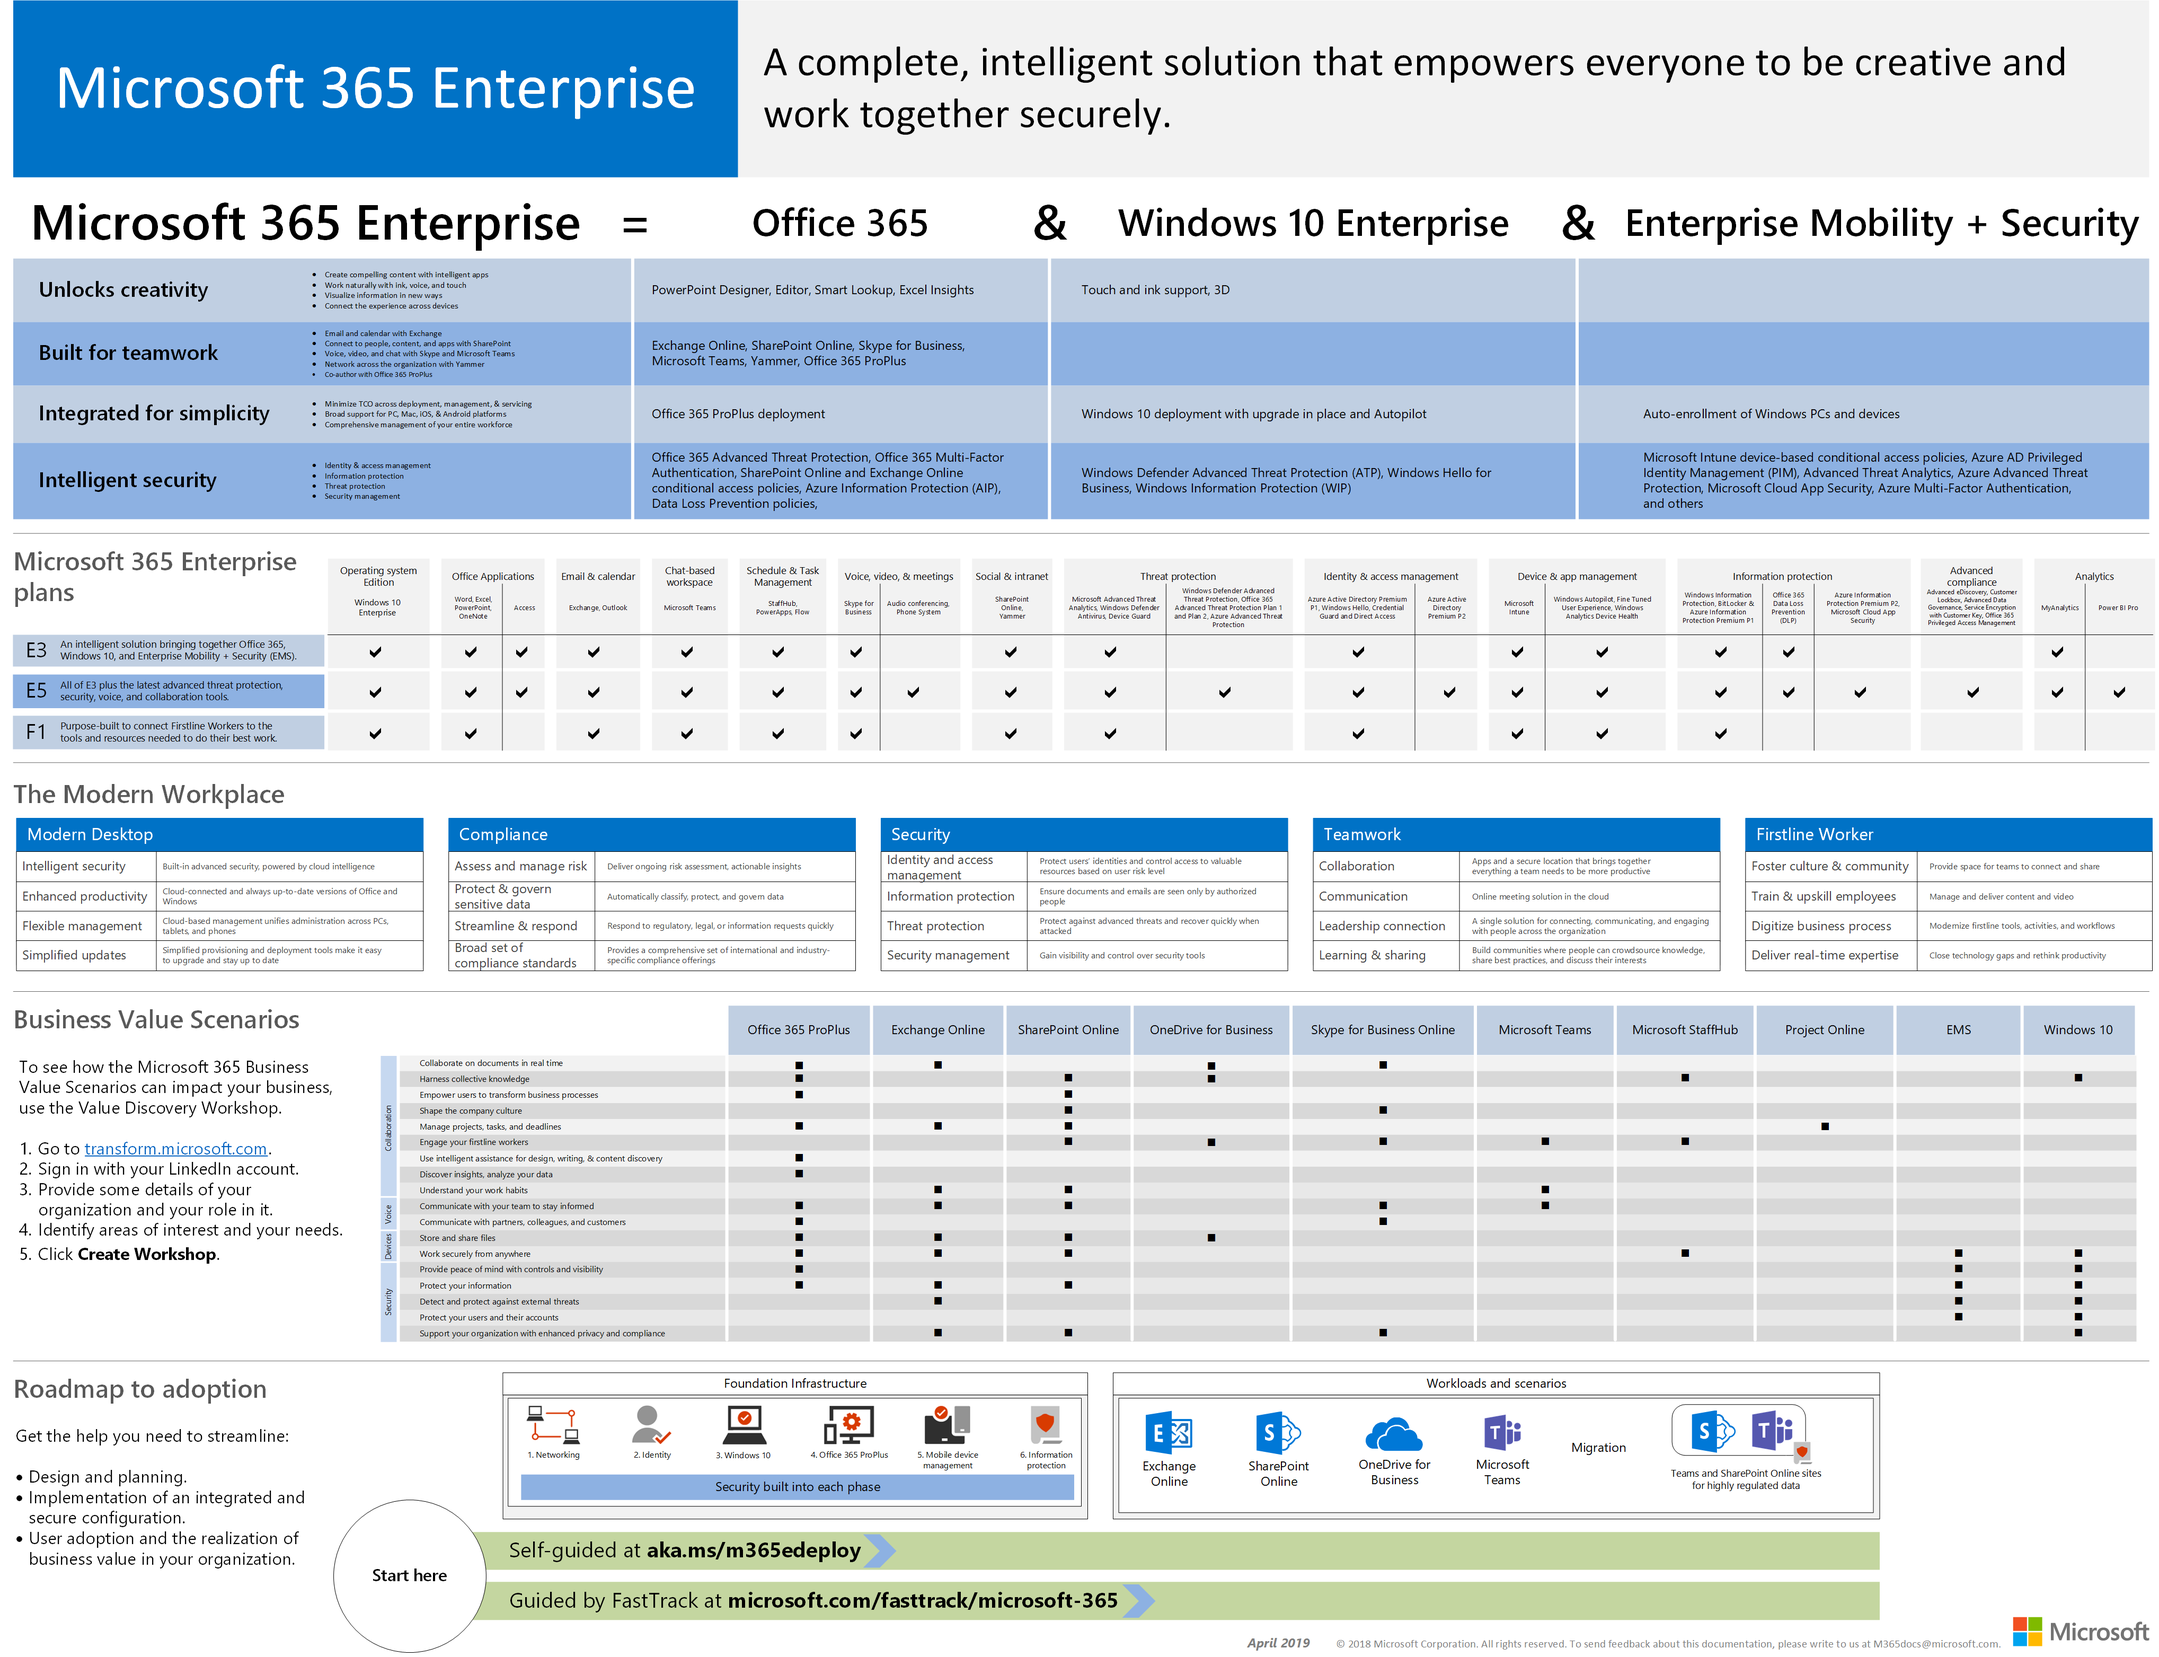
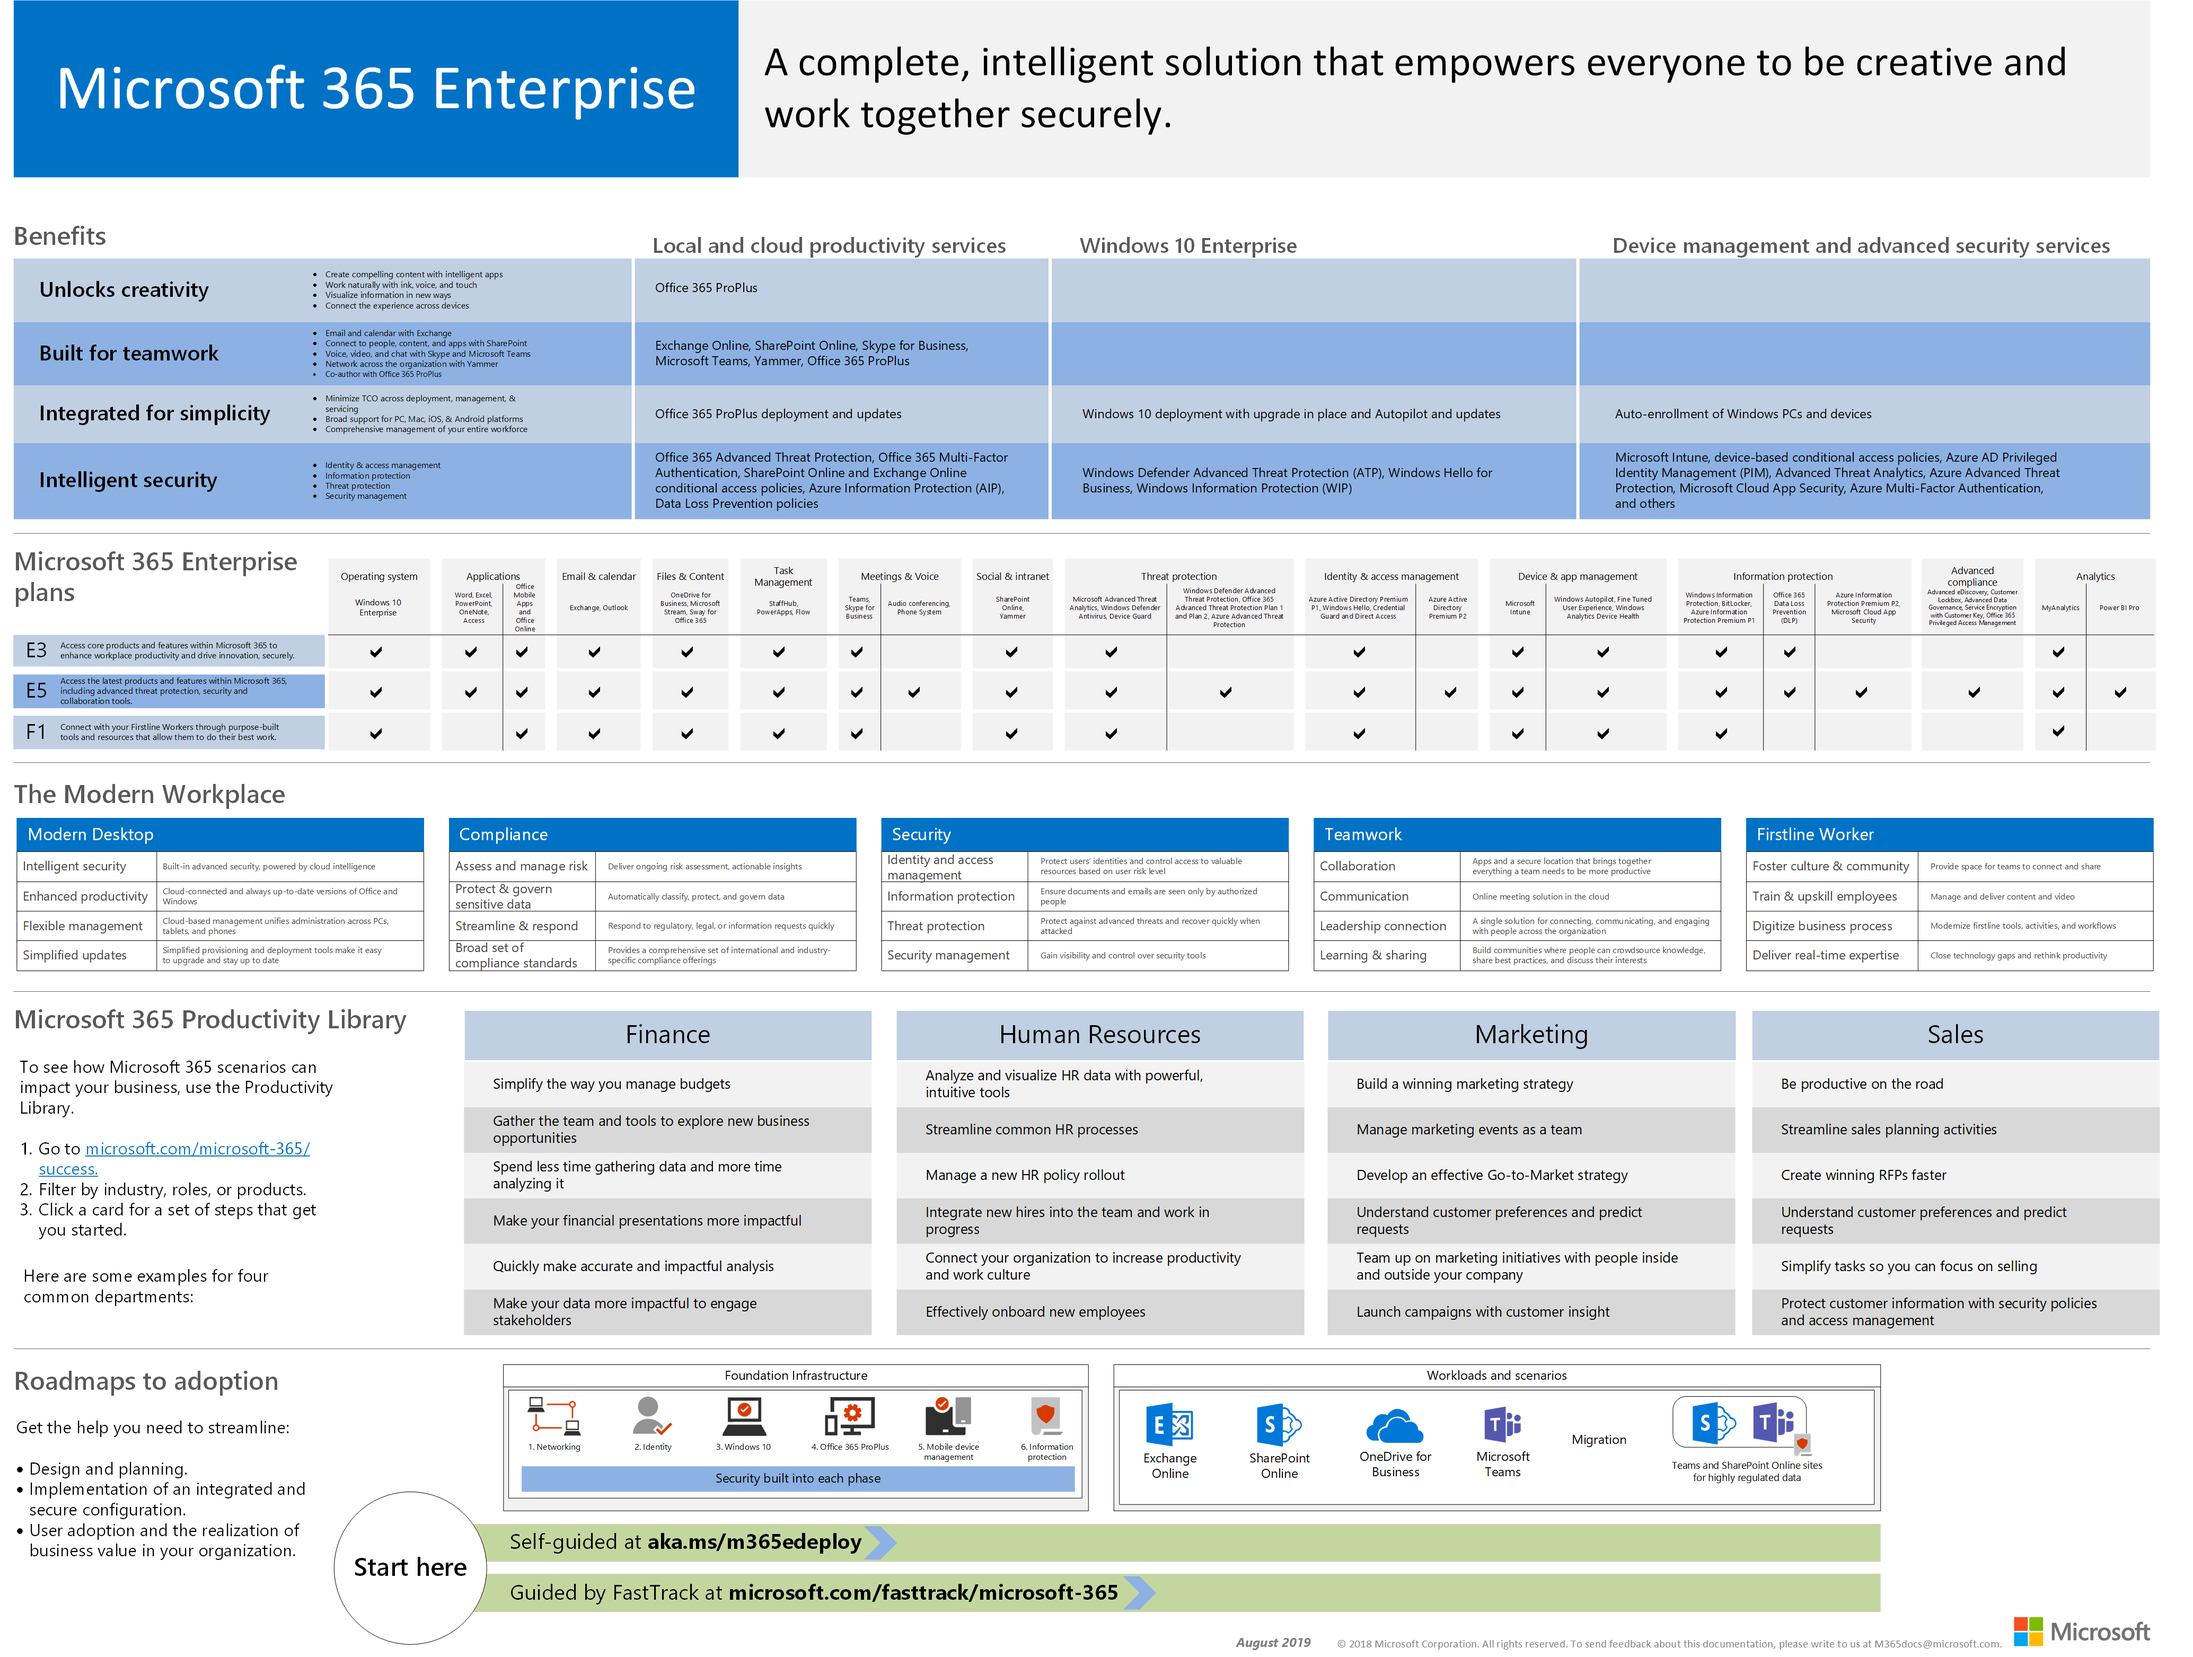
commit translated contents

diff --git a/microsoft-365/enterprise/microsoft-365-overview.md b/microsoft-365/enterprise/microsoft-365-overview.md
@@ -3,20 +3,20 @@ title: Microsoft 365 企业版概述
 ms.author: josephd
 author: JoeDavies-MSFT
 manager: laurawi
-ms.date: 04/23/2019
-ms.audience: ITPro
+ms.date: 07/30/2019
+audience: ITPro
 ms.topic: article
 ms.service: o365-solutions
 localization_priority: Normal
 ms.collection: M365-subscription-management
 ms.custom: it-pro
 description: 介绍了 Microsoft 365 企业版的组件、计划和部署路径。
-ms.openlocfilehash: d3cac3274a93c2f6d2d042a03a5140f16152d8d9
-ms.sourcegitcommit: dbcc32218489ab256b7eb343290fcccb9bc04e36
+ms.openlocfilehash: ec2a8f0d60f50503f8f5cf457c2999598e248053
+ms.sourcegitcommit: 63ca34172fcb9a957ce86b878a4d8d0f935c6a7b
 ms.translationtype: MT
 ms.contentlocale: zh-CN
-ms.lasthandoff: 05/02/2019
-ms.locfileid: "33553331"
+ms.lasthandoff: 07/30/2019
+ms.locfileid: "35937415"
 ---
 # <a name="microsoft-365-enterprise-overview"></a>Microsoft 365 企业版概述
 
@@ -30,9 +30,9 @@ Microsoft 365 企业版包括:
 
 |||
 |:-------|:-----|
-| Office 365 Enterprise | 包括 Office 365 专业增强版、电脑和 Mac 的最新 Office 应用程序 (如 Word、Excel、PowerPoint、Outlook 和其他用户), 以及用于电子邮件、文件存储和协作、会议等的一套完整的在线服务。 |
+| 本地和基于云的应用和生产率服务 | 包括 Office 365 专业增强版、电脑和 Mac 的最新 Office 应用程序 (如 Word、Excel、PowerPoint、Outlook 和其他用户), 以及用于电子邮件、文件存储和协作、会议等的一套完整的在线服务。 |
 | Windows 10 企业版 | 满足了大型和中型组织的需求, 为用户提供了具有全面部署、设备和应用程序管理的最高效、安全的 Windows 和 IT 专业人员版本。 |
-| 企业移动性 + 安全性 (EMS) | 包括 Microsoft Intune, 这是一种基于云的企业移动管理 (EMM) 服务, 可帮助您的员工在保持公司数据受保护的情况下提高工作效率。 |
+| 设备管理和高级安全服务 | 包括 Microsoft Intune, 这是一种基于云的企业移动管理 (EMM) 服务, 可帮助您的员工在保持公司数据受保护的情况下提高工作效率。 |
 |||
 
 ## <a name="plans"></a>计划
@@ -41,10 +41,17 @@ Microsoft 365 企业版提供了三个计划。
 
 |||
 |:-------|:-----|
-| E3 | 包括 Office 365 企业版、Windows 10 企业版和企业移动性 + 安全性 (EMS)。 |
-| E5 | 包括所有 E3's 功能, 以及高级安全性、语音和数据分析工具。 |
-| F1 | 专门为将 firstline 工作者连接到完成其最佳工作所需的工具和资源而构建的。 Firstline 工作人员是与客户接洽的第一行为, 代表贵公司的品牌和价值。 |
+| E3 | 访问 Microsoft 365 中的核心产品和功能, 以提高工作效率和促进创新和安全。 |
+| E5 | 访问 Microsoft 365 中的最新产品和功能, 包括高级威胁防护、安全和协作工具。。 包括所有 E3's 功能, 以及高级安全性、语音和数据分析工具。 |
+| F1 | 通过专门构建的工具和资源与您的 Firstline 工作人员联系, 让他们能够完成其最佳工作。 |
 |||
+
+如果你有 Microsoft 365 企业 E3, 还可以获取以下[产品](https://www.microsoft.com/microsoft-365/blog/2019/01/02/introducing-new-advanced-security-and-compliance-offerings-for-microsoft-365/):
+
+- 身份 & 威胁防护
+- 信息保护 & 合规性
+
+这些产品包含 Microsoft 365 企业版 E5 附带的其他功能。
 
 有关详细信息, 请参阅[每个计划的特性和功能](https://www.microsoft.com/microsoft-365/compare-all-microsoft-365-plans)。
 
@@ -52,7 +59,7 @@ Microsoft 365 企业版提供了三个计划。
 
 [Microsoft 365 企业版海报](http://aka.ms/m365eposter)是查看的中心位置:
 
-- Microsoft 365 企业版的产品和功能及其如何映射到其价值支柱
+- Microsoft 365 企业的优势及其如何将其映射到价值支柱
 - Microsoft 365 企业版计划及其包含的组件 
 - Microsoft 365 企业版支持的新式工作场所的关键组件
 - Microsoft 365 企业的关键业务价值方案以及哪些服务和产品使它们成为现实
@@ -103,6 +110,7 @@ Microsoft 365 企业版提供了三个计划。
 |||
 |:-------|:-----|
 ![](./media/m365-poster/m365-fundamentals.svg)| 向自己培训并努力处理 Microsoft 365 认证。 <BR> 从[Microsoft 365 基础](https://docs.microsoft.com/learn/paths/m365-fundamentals/)开始。
+|||
 
 
 ## <a name="next-step"></a>后续步骤
